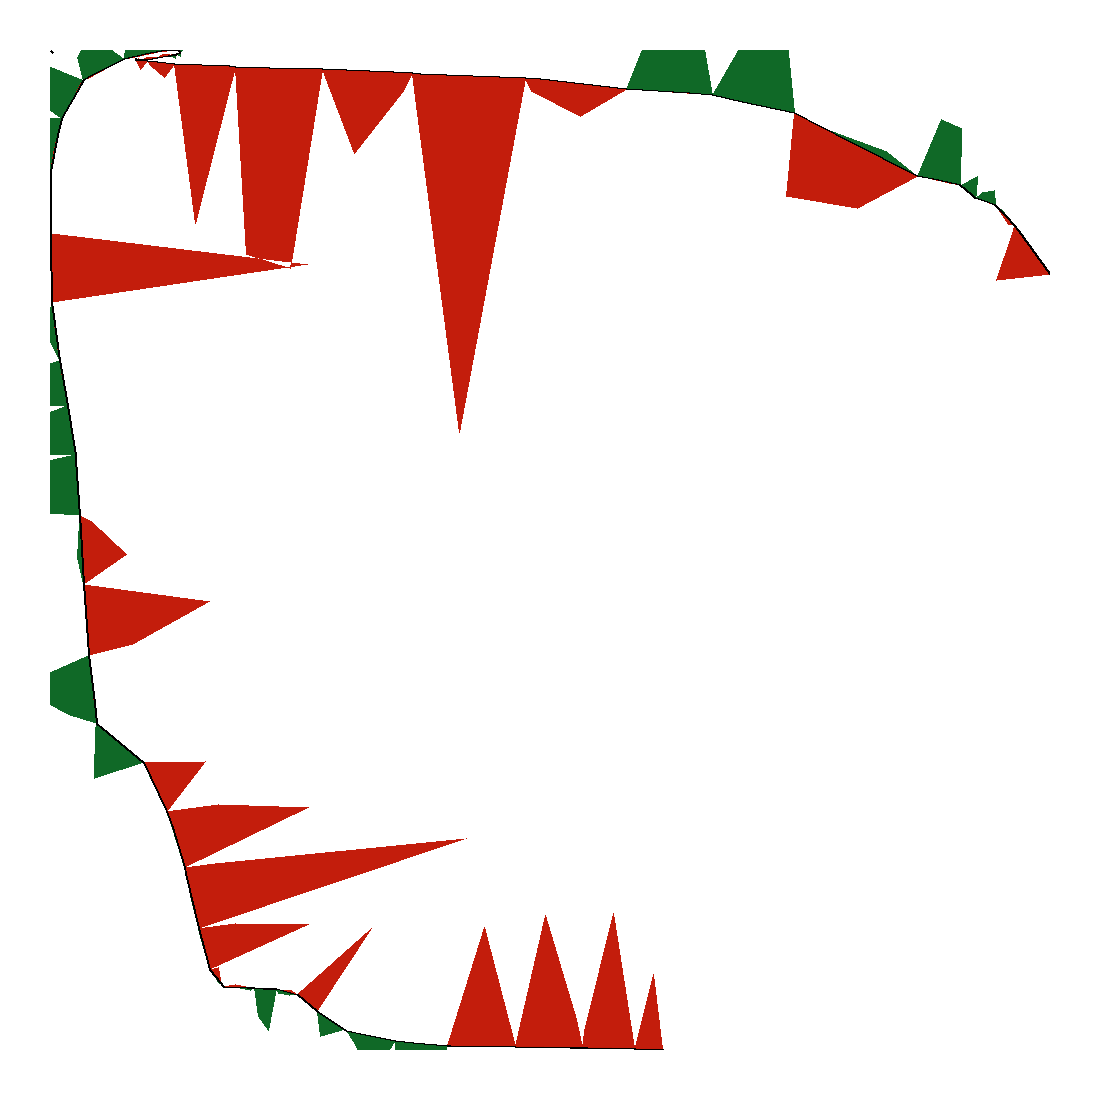
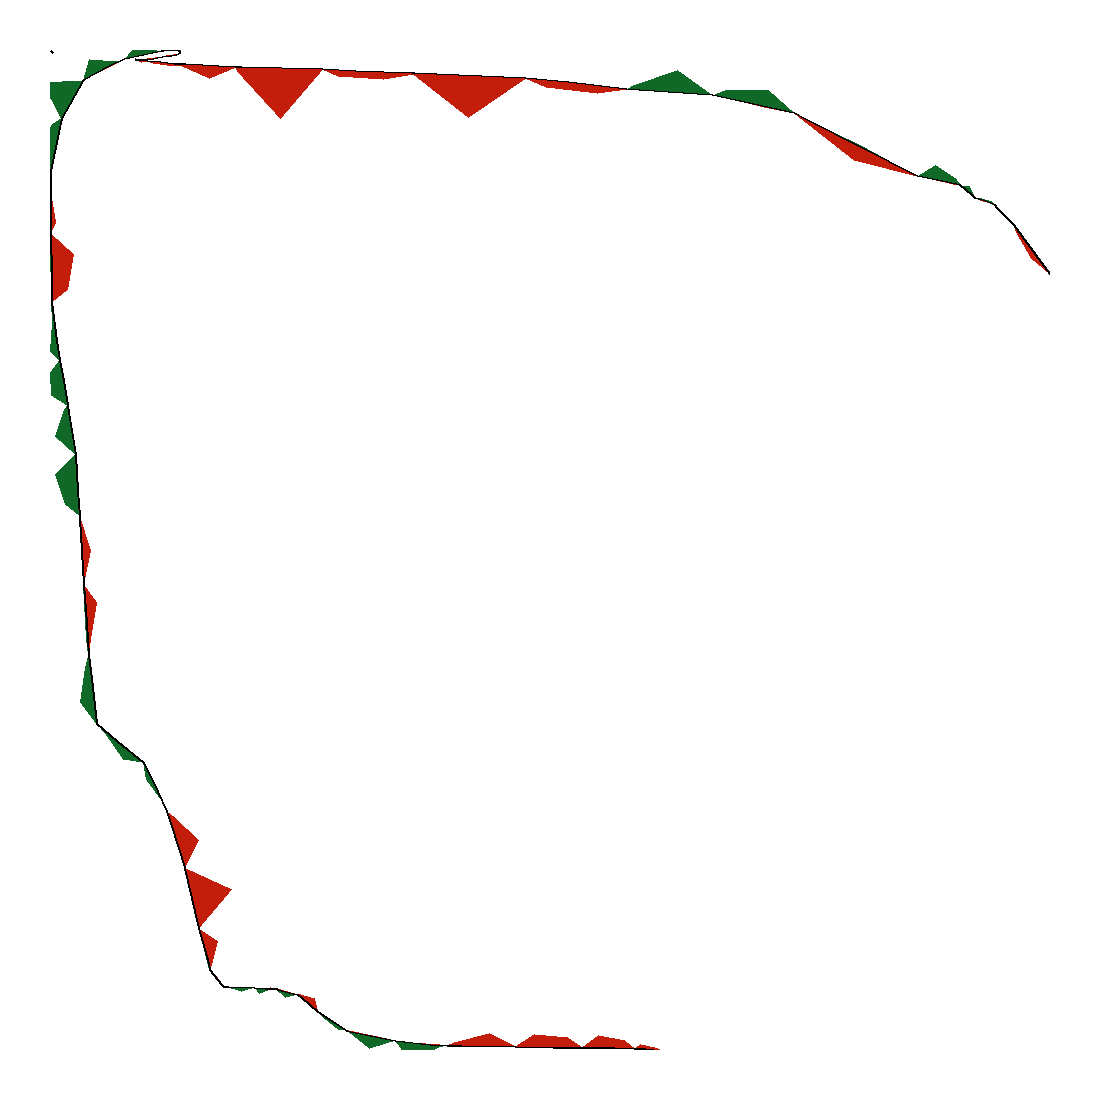
Processing:

diff --git a/reader.py b/reader.py
@@ -20,10 +20,11 @@ def get_data():
     data = pd.DataFrame(index = range(len(x)))
     data['x'] = x
     data['y'] = y
-    data['accel'] = raw_data['x_accel'] + raw_data['y_accel'] + raw_data['z_accel']
     
+    data['accel'] = raw_data['x_accel'] + raw_data['y_accel'] + raw_data['z_accel']
     data['brake'] = data['accel']
     mask = data['accel'] <= 0
+
     data.loc[mask, 'accel'] = 0
     data.loc[~mask, 'brake'] = 0
     

diff --git a/processor.py b/processor.py
@@ -19,6 +19,11 @@ def zero_and_one(x):
 def fit_to_universe(data):
     data['x'] = zero_and_one(data['x'])
     data['y'] = zero_and_one(data['y'])
+   
+
+    data['accel'] = data['accel']/data['accel'].max()
+    data['brake'] = -1 * (data['brake']/data['brake'].min())
+
     return data
 
 

diff --git a/main.py b/main.py
@@ -13,7 +13,7 @@ print("FITTING")
 data = processor.fit_to_universe(data)
 
 print("REDUCING OBS")
-data = processor.reduce_obs(data, 1000)
+data = processor.reduce_obs(data, 200)
 
 print("DRAWING")
 d = Display()
